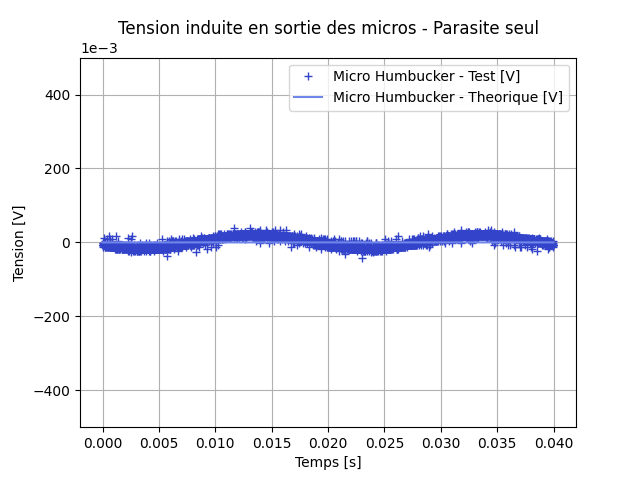
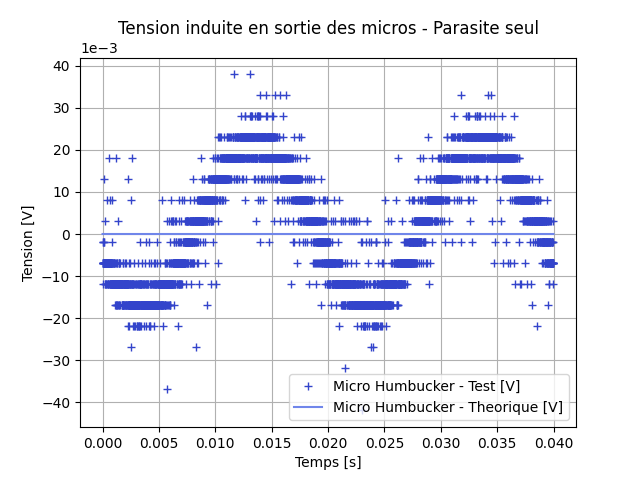
20-11 2

diff --git a/Python/Code/Modele_fem.py b/Python/Code/Modele_fem.py
@@ -228,6 +228,13 @@ if __name__ == "__main__":
     Test_h_tot = np.array(Test_h_tot[:4000])
     doc.close()
     print("Donnees de test Humbucker parasite + corde lues.")
+    
+    List_Par = np.linspace(0, 150*10**-6, 15)
+    List_amp_h_th = np.zeros(15)
+    List_amp_h_test = [0, 40*10**-3, 0, 0, 0, 0, 0, 0, 0, 0, 0, 0, 0, 0, 0]
+    List_amp_s_th = [N_s*S*2*np.pi*fB*i for i in List_Par]
+    Liste_amp_s_test = np.zeros(15)
+    
 
 print("-" * 100)
                                             #!######################!#
@@ -410,7 +417,7 @@ if __name__ == "__main__":
     plt.title("Tension induite en sortie des micros - Parasite seul")
     plt.xlabel("Temps [s]")
     plt.ylabel("Tension [V]")
-    plt.ylim(-0.5, 0.5)
+    #plt.ylim(-0.5, 0.5)
     plt.grid()
     plt.legend()
     plt.savefig("Python/Exports/02-Humbucker_parasite.png")
@@ -478,6 +485,22 @@ if __name__ == "__main__":
     plt.close()
     print("Courbes sauvegardees sous Python/Exports/Th-Total.png.")
 
+    #* --- Droite champ parasite ---*#
+    print("Comparaison des micros champ parasite...")
+    plt.plot(List_Par, List_amp_h_th, color=Color_h, label="Micro Humbucker - Theorique [V]")
+    plt.plot(List_Par, List_amp_h_test, "+", color=Color_h_test, label="Micro Humbucker - Test [V]")
+    plt.plot(List_Par, List_amp_s_th, color=Color_s, label="Micro Singlecoil - Theorique [V]")
+    plt.plot(List_Par, Liste_amp_s_test, "+", color=Color_s_test, label="Micro Singlecoil - Test [V]")
+    plt.gca().ticklabel_format(axis='x', style='sci', scilimits=(-6, -6))
+    plt.gca().ticklabel_format(axis='y', style='sci', scilimits=(-3, -3))
+    plt.title("Amplitude des tension induite en sortie des micros soumis à un champ parasite")
+    plt.xlabel("Amplitude du champ parasite [T]")
+    plt.ylabel("Ampltitude Tension [V]")
+    plt.grid()
+    plt.legend()
+    plt.savefig("Python/Exports/99-Doite.png")
+    plt.close()
+    print("Courbes sauvegardees sous Python/Exports/99-Droite.png.")
 
 print("-" * 100)
 print("\n---\nFin de l'execution de Modele_fem.py\n---\n")
